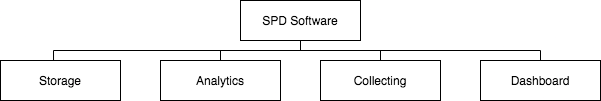
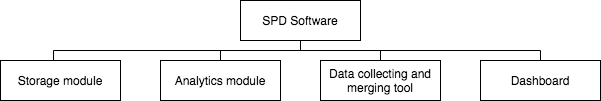
Updated SOW

Changed region(s): [[0.5391, 0.6832, 0.7188, 0.9505], [0.2696, 0.7426, 0.4493, 0.8614], [0.03, 0.7426, 0.1797, 0.8614]]

diff --git a/PM/Statement of Work.md b/PM/Statement of Work.md
@@ -1,26 +1,48 @@
 # Project Title: Big Data Collecting and Analytics Platform for Strategic Product Development
 
 ## A. Introduction/Background
-IR2 operates in Italy and Europe and builds household robots for cleaning. Our products have high-quality components, innovative software and design, and relies an advanced research and development department that collaborates with the world most important robotic institutes in the world (citare istituti di robotica?). Currently, for our processes we use a custom version of the [HeliumV](https://en.wikipedia.org/wiki/HeliumV) open-source ERP system. Moreover, we have a website, on which customers can buy our products and write aftersales reviews, and a mobile application through which customers can manage their robots and report problems. Therefore, it was decided to improve the managing of the output data coming from our r&d departement and integrate those data with customers feedbacks. 
+IR2 operates in Italy and Europe and builds household robots for cleaning. Our products have high-quality components, innovative software and design, and relies an advanced research and development department that collaborates with the world most important robotic institutes such as Istituto Italiano di tecnologia, Centro di ricerca E.Piaggio and Politecnico di Milano. Currently, for our processes we use a custom web-application. Moreover, we have a website, on which customers can buy our products and write aftersales reviews, and a mobile application through which customers can manage their robots and report problems. Therefore, it was decided to improve the managing of the output data coming from our r&d departement and integrate those data with customers feedbacks. 
 
 ## B. Objectives
 The objective of this project is to improve our products development by creating a platform able to manage big data and integrate from different sources.
 
 ## C. Scope of Work
-Project works includes a development of a storage platform for big data, that stores data both from r&d department and customer reviews coming from our website and our mobile application. The development of an analytics system for the data stored that includes predictive models. The development of a dashboard for the ERP software from which our employees can access data and visualize reports and predictions.
+The scope of this project is to design, implement and licensing the strategic product development software for IR2. Project works includes:
+- A development of a storage platform able to manage big data.
+- A development of a data collecting and merging tool that retrieve and merge r&d department data and customer reviews from our website, our mobile application and our social network profiles.
+- A development of an analytics system for the stored data that includes predictive models.
+- A development of a dashboard in our web-aaplication from which our employees can access and visualize data and reports.
 
-The software should:
-- Be user-friendly dashboard that is easy to navigate.
-- Be compatible with our existing system, it should use REST API for intramodule communication.
-- Be modular.
-- Reduce the risk of data losses.
-
+The software should respect the following requirements:
+- The dashboard should be user-friendly and is easy to navigate.
+- The system should be integrated in our existing web-application.
+- The system should reduce at minimum the risk of data losses.
+- The data should be visualized for type of product and date.
+- The system should forecast an approval rating per product
+- The system should show tag clouds and histograms of review's trending topic. 
+- The system should have the R&D datasheet search by keywords.
+- The system should have the reviews search by keywords. 
+- The system should show reports on past selling trends along with forecasted selling trends.
+- The system should show R&D reports related with topic based on customer reviews.
+- The system should identify the most active customers.
 
 ## D. Milestones
-- System architecture (2 Weeks after starting)
-- Report with mokup prototypes (4 Weeks after starting)
+- Overall system design proposal in form of document (1 Week after project start date).
+- Overall system architecture proposal in form of document (2 Weeks after project start date).
+- Dashboard design proposal in form of mokups (3 Weeks after project start date).
+- First software demo and report of implemented features and performed tests (4 Weeks after project start date).
+- Second software demo and report of implemented features and performed tests (8 Weeks after project start date).
+- Third software demo and report of implemented features and performed tests (12 Weeks after project start date).
+- Fourth software demo and report of implemented features and performed tests (16 Weeks after porject start date).
+- Final dashboard design proposal (17 Weeks after project start date).
+- Final system prototype and user manual (20 Weeks after project start date).
+- Final report of tests performed on the system before deployment (24 Weeks Months after starting).
 
 ## E. WBS
-![WBS](./PM/WBS.drawio)
 
-## F. Budget
+![WBS](./WBS.png)
+
+## F. Budget
+
+## Request for proposal
+In this request for proposal there are the requirements for an open and competitive process for a software forniture. All bid should include a detailed explanation of costs with fees. Proposal will be accepted until 4:30 pm May 30, 2020. Any proposal received after the end date will be rejected.  Contract terms and condition will be negotiated with the winning bidder for this RFP. Contractual terms and condition will be reviewd by the IR2 legal department and will include scope, budget, schedule and all the necessary items pertaining to the project.
